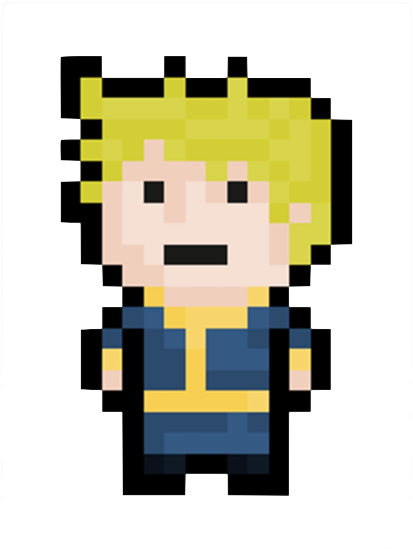
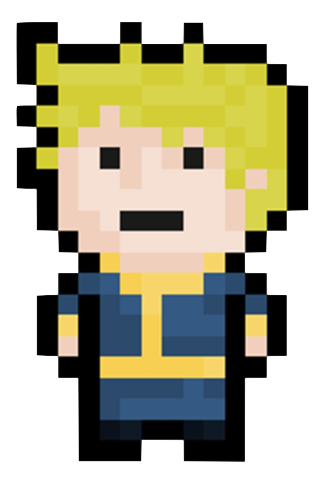
add start page and tell if it's the right room to enter. Change image mode to CENTER for further developing

diff --git a/src/hall/Hall.java b/src/hall/Hall.java
@@ -12,14 +12,17 @@ public class Hall extends GameSystem {
 
   @Override
   public void run() {
-    g.image(bg, 0, 0);
+    g.image(bg, utils.Const.WIDTH / 2, utils.Const.HEIGHT / 2);
     if (KeyInput.isUpPressed) {
       if (inHouse1()) {
-        g.changePage(1);
-      } else if (inHouse2()) {
-        g.changePage(2);
-      } else if (inHouse3()) {
-        g.changePage(3);
+        g.changePage(utils.Const.CAR_RACING);
+      } else if (inHouse2() && g.isFirstPassed) {
+        g.changePage(utils.Const.SAVE_KIRA);
+      } else if (inHouse3() && g.isSecondPassed && g.isFirstPassed) {
+        g.changePage(utils.Const.MEANING_OF_GAME);
+      } else if ((inHouse2() && !g.isFirstPassed)
+          || inHouse3() && (!g.isSecondPassed || !g.isFirstPassed)) {
+        g.image(worngRoom, utils.Const.WIDTH / 2, utils.Const.HEIGHT / 2);
       }
     }
     player.update();
@@ -27,23 +30,26 @@ public class Hall extends GameSystem {
   }
 
   private boolean inHouse1() {
-    return player.x > 350 && player.x < 400;
+    return player.x > 320 && player.x < 430;
   }
 
   private boolean inHouse2() {
-    return player.x > 610 && player.x < 660;
+    return player.x > 580 && player.x < 690;
   }
 
   private boolean inHouse3() {
-    return player.x > 865 && player.x < 965;
+    return player.x > 835 && player.x < 995;
   }
 
   public void initBackground() {
     bg = g.loadImage("hall.jpg");
+    player.loadHallPlayer(g);
+    worngRoom = g.loadImage("wrongroom.png");
   }
 
   private PImage bg;
-  private int START_X = 150;
-  private int START_Y = 600;
+  private PImage worngRoom;
+  private int START_X = 129;
+  private int START_Y = 560;
   private HallPlayer player = new HallPlayer(START_X, START_Y);
 }

diff --git a/src/main/ReadyPlayerOne.java b/src/main/ReadyPlayerOne.java
@@ -23,12 +23,21 @@ public class ReadyPlayerOne extends PApplet {
   @Override
   public void setup() {
     rectMode(CENTER);
+    imageMode(CENTER);
+    start = loadImage("start.jpg");
     ((Hall) gameSystems[0]).initBackground();
   }
 
   @Override
   public void draw() {
-    gameSystems[currPage].run();
+    if (!hasStart) {
+      image(start, Const.WIDTH / 2, Const.HEIGHT / 2);
+      if (KeyInput.isSPressed) {
+        hasStart = true;
+      }
+    } else {
+      gameSystems[currPage].run();
+    }
   }
 
   @Override
@@ -47,18 +56,14 @@ public class ReadyPlayerOne extends PApplet {
    *        The page(screen) that will change to.
    */
   public void changePage(int page) {
-    if (page == 0) {
-      currPage = Const.HALL;
-    } else if (page == 1) {
-      currPage = Const.CAR_RACING;
-    } else if (page == 2) {
-      currPage = Const.SAVE_KIRA;
-    } else if (page == 3) {
-      currPage = Const.MEANING_OF_GAME;
-    }
+    currPage = page;
   }
 
   private int currPage = Const.HALL;
+  private PImage start;
+  private boolean hasStart = false;
+  public boolean isFirstPassed = false;
+  public boolean isSecondPassed = false;
   private GameSystem[] gameSystems = new GameSystem[] { new Hall(this), new CarRacing(this),
       new SaveKira(this), new MeaningOfGame(this) };
 }

diff --git a/src/hall/HallPlayer.java b/src/hall/HallPlayer.java
@@ -1,13 +1,14 @@
 package hall;
 
 import processing.core.PApplet;
-import utils.Const;
+import processing.core.PImage;
 import utils.KeyInput;
 import utils.MovingObject;
 
 public class HallPlayer extends MovingObject {
   public HallPlayer(float _x, float _y) {
     super(_x, _y);
+
   }
 
   @Override
@@ -17,7 +18,18 @@ public class HallPlayer extends MovingObject {
 
   @Override
   public void display(PApplet g) {
-    // TODO: change it to a picture of the player.
-    g.ellipse(x, y, 20, 80);
+    if (KeyInput.isLeftPressed) {
+      g.image(leftPlayer, x, y, 98, 135);
+    } else {
+      g.image(rightPlayer, x, y, 98, 135);
+    }
   }
+
+  public void loadHallPlayer(PApplet g) {
+    leftPlayer = g.loadImage("left.png");
+    rightPlayer = g.loadImage("right.png");
+  }
+
+  private PImage leftPlayer;
+  private PImage rightPlayer;
 }

diff --git a/src/utils/KeyInput.java b/src/utils/KeyInput.java
@@ -5,8 +5,7 @@ import processing.core.PApplet;
 public class KeyInput {
   /**
    * @param pressed
-   *          equals true when a specific key is pressed, false when it is
-   *          released.
+   *        equals true when a specific key is pressed, false when it is released.
    */
   public static void update(char key, int keyCode, boolean pressed) {
     switch (keyCode) {
@@ -25,12 +24,14 @@ public class KeyInput {
     }
     if (key == ' ') {
       isSpacePressed = pressed;
-    }
-    if (key == 'r') {
+    } else if (key == 'r') {
       isRPressed = pressed;
+    } else if (key == 's') {
+      isSPressed = pressed;
     }
   }
 
+  public static boolean isSPressed = false;
   public static boolean isRPressed = false;
   public static boolean isUpPressed = false;
   public static boolean isDownPressed = false;

diff --git a/src/game1/CarRacing.java b/src/game1/CarRacing.java
@@ -69,6 +69,7 @@ public class CarRacing extends GameSystem {
       g.text("Congrats! press space to keep going",200 , 200);
       if (KeyInput.isSpacePressed) {
         g.changePage(0);
+        g.isFirstPassed = true;
       }
     }
   }
